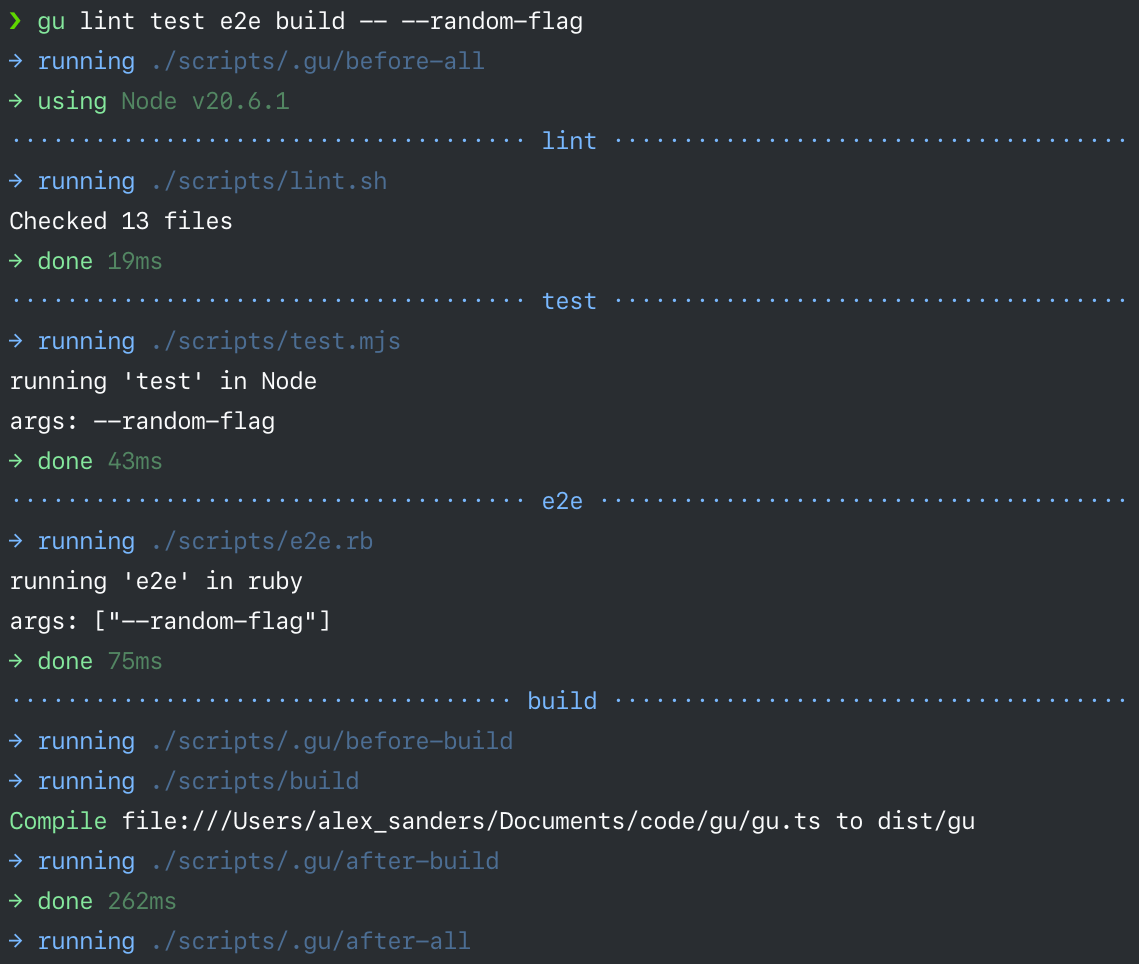
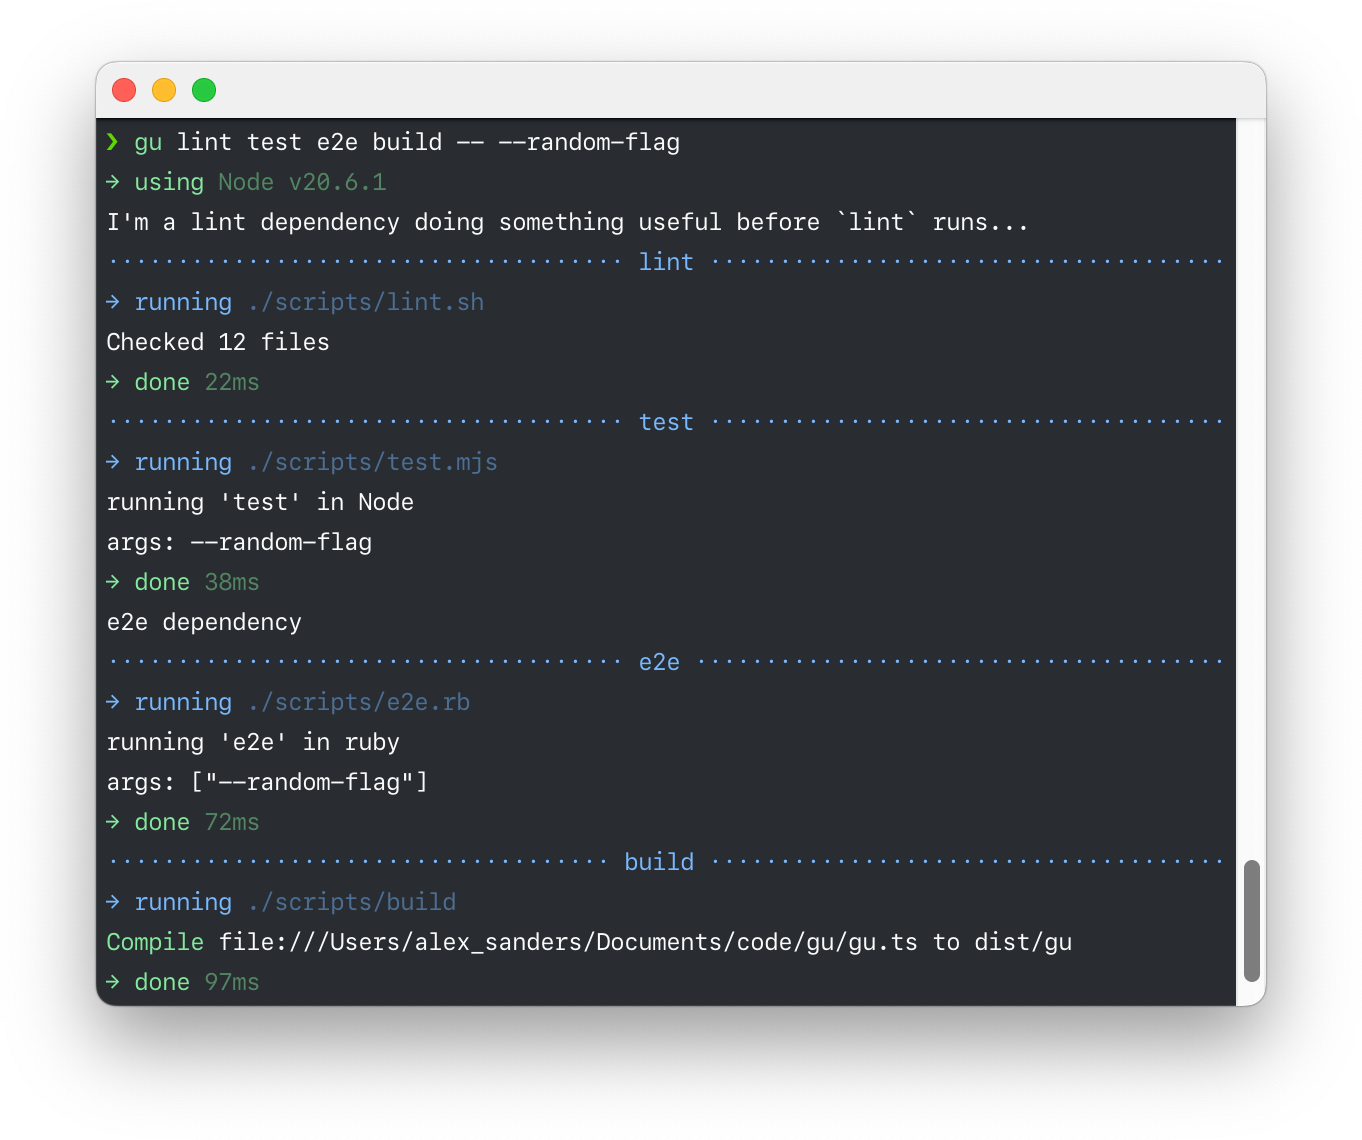
update screenshot

diff --git a/gu.config.ts b/gu.config.ts
@@ -10,7 +10,9 @@ import { checkNode } from './helpers/check-node.ts';
 import { type Config } from './src/getConfig.ts';
 
 const lintDependency = async () => {
-	console.log('lint dependency');
+	console.log(
+		'I\'m a lint dependency doing something useful before `lint` runs...',
+	);
 };
 
 export default {

diff --git a/README.md b/README.md
@@ -31,7 +31,7 @@ some common tasks (e.g. checking the current Node version) – see below.
 
 ### Screenshot
 
-<!-- <img src="assets/screenshot.png" width="570" alt="screenshot of gu running" > -->
+<img src="assets/screenshot.png" width="681" alt="screenshot of gu running" >
 
 ### What can it run?
 
